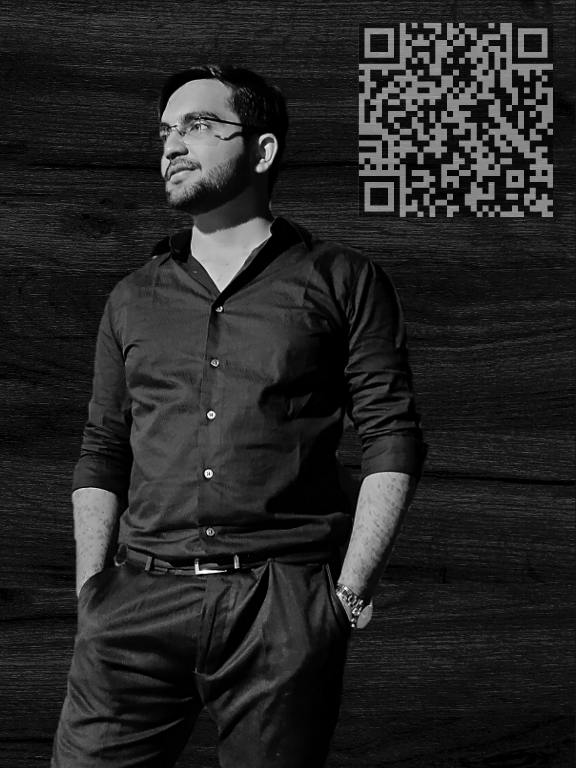
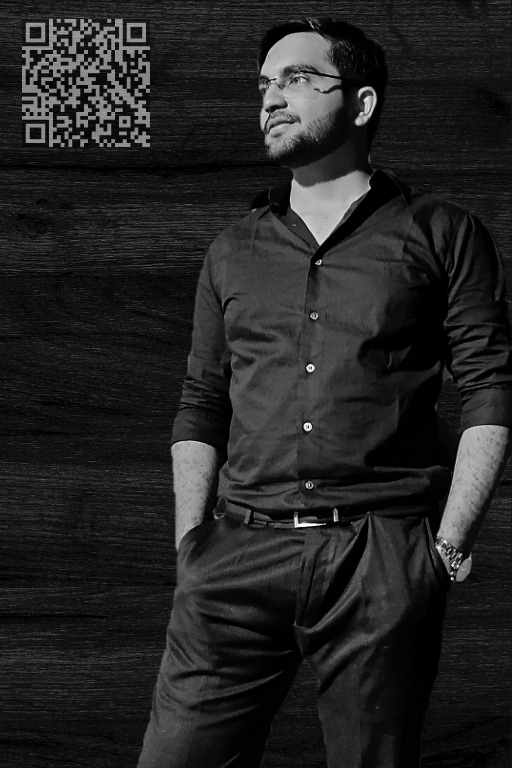
Test mobile background

diff --git a/assets/css/style.css b/assets/css/style.css
@@ -24,7 +24,7 @@ body::before {
     background-attachment: fixed;
   }
 }
-@media (max-width: 700px) {
+@media (max-width: 590px) {
   body::before {
     background-attachment: fixed;
     background:url("../img/bg1.jpg");
